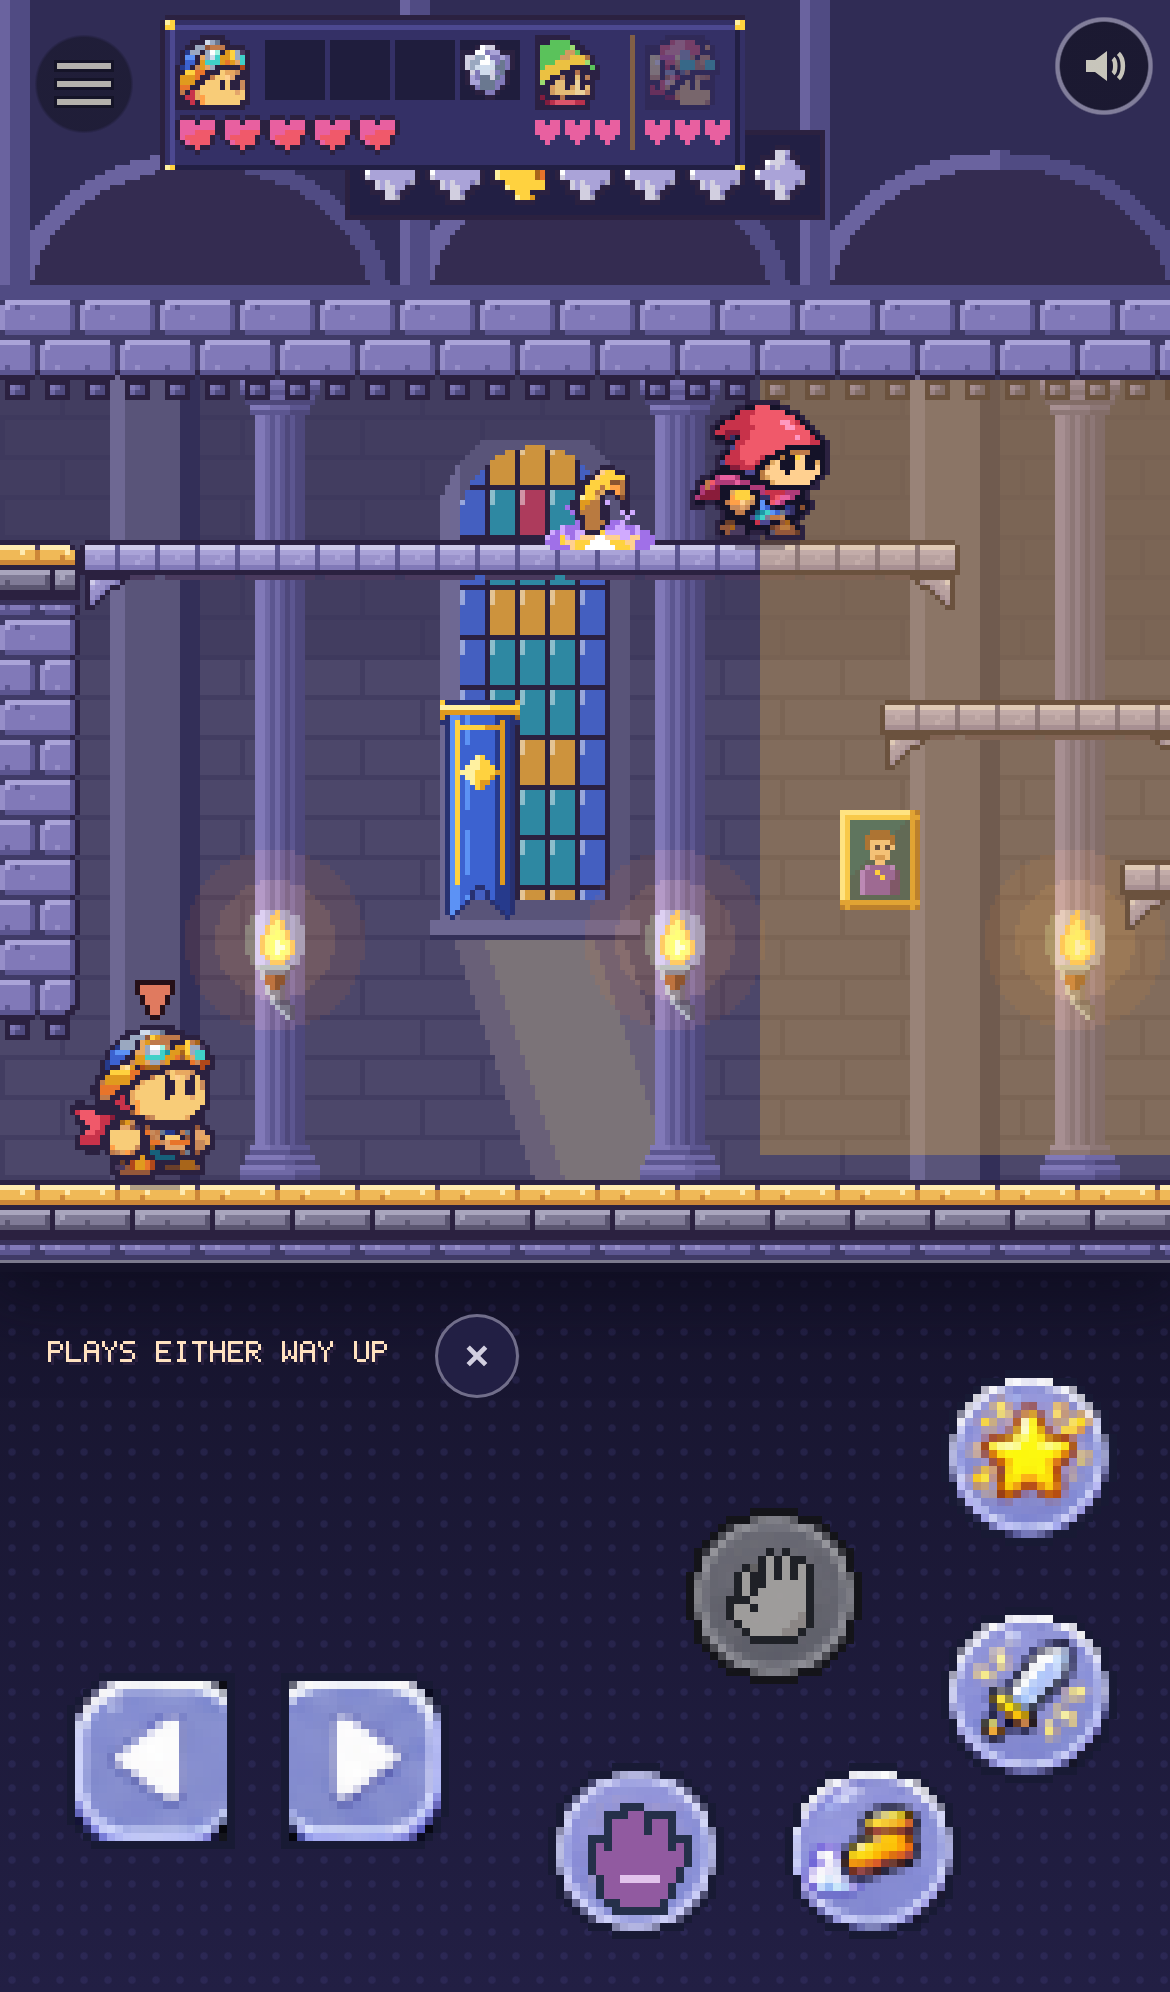
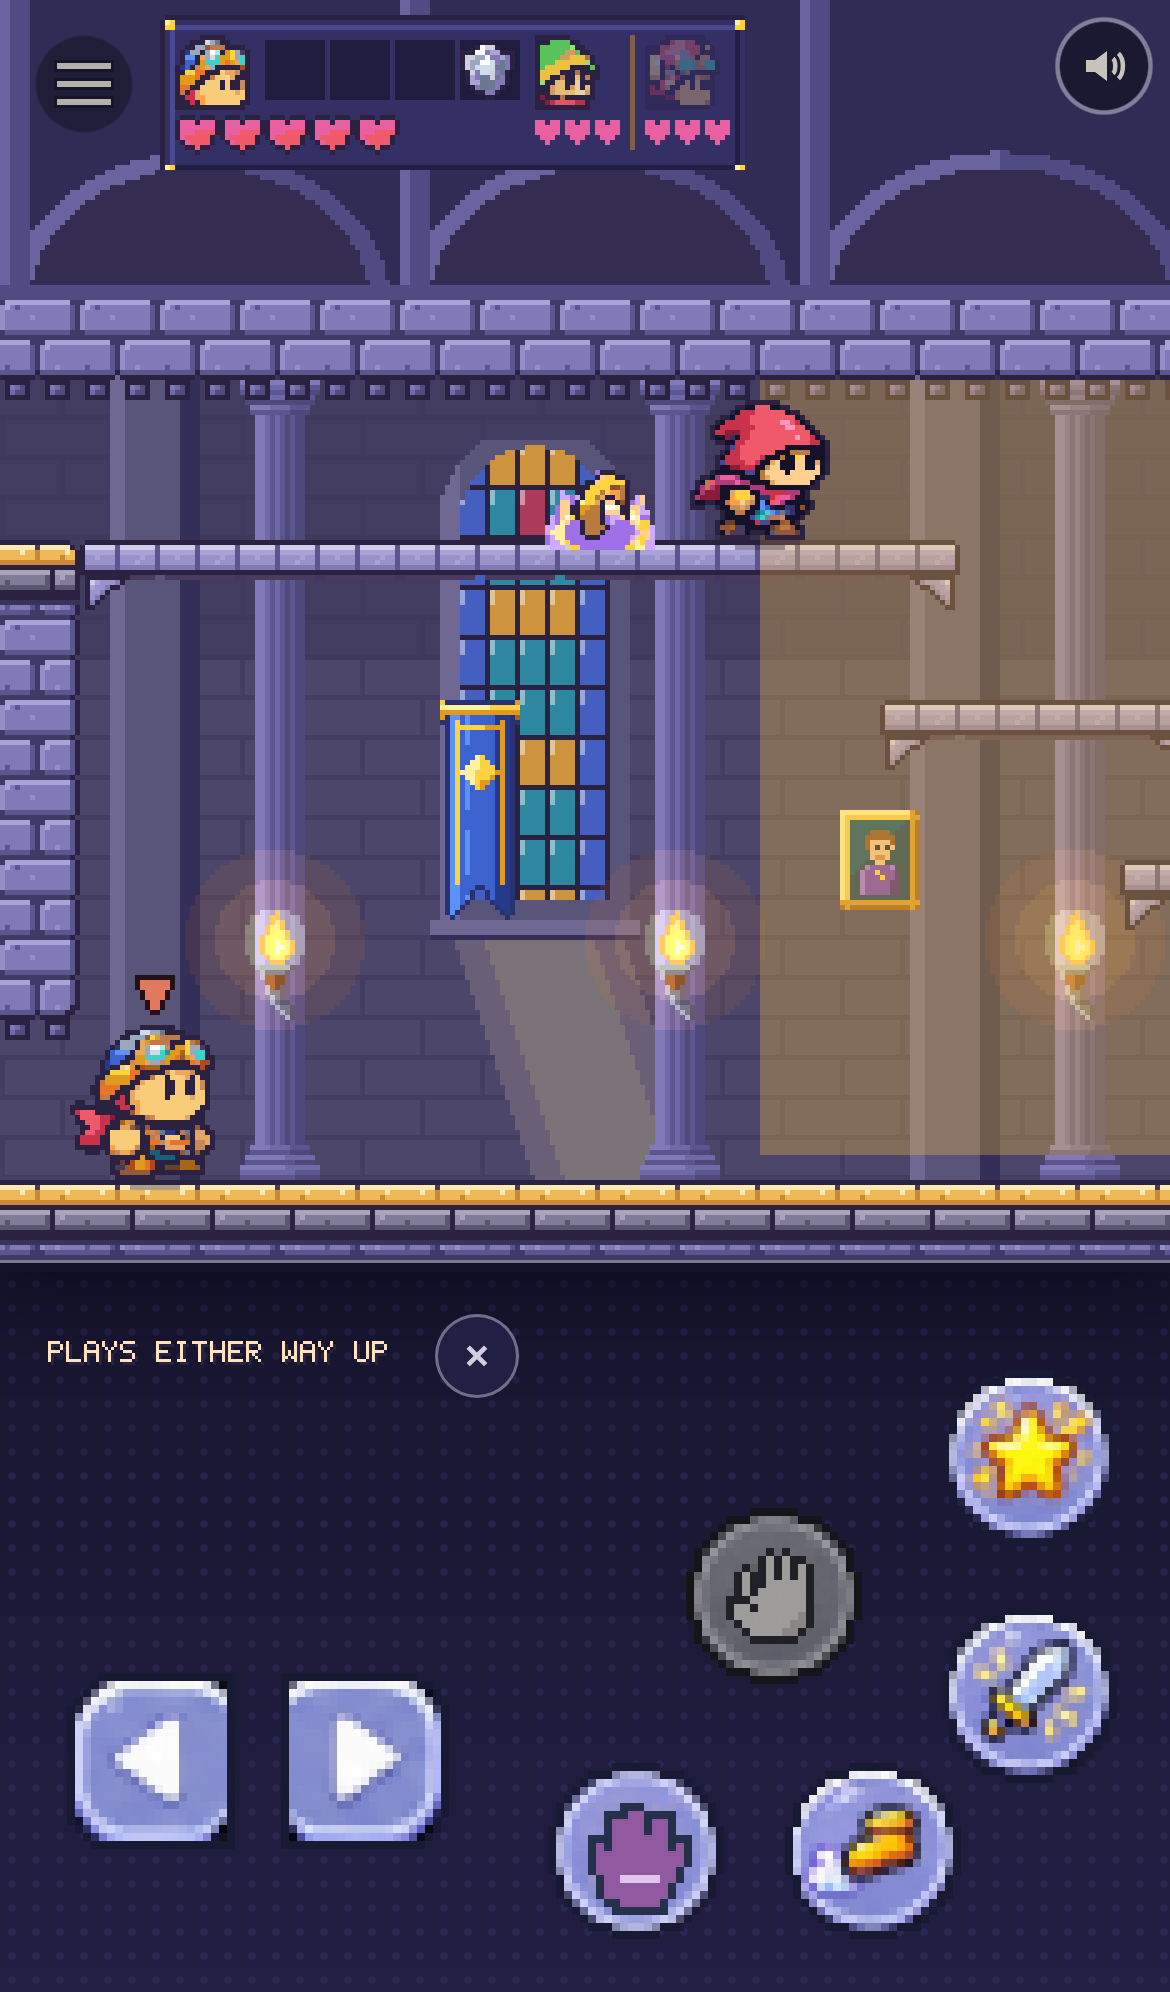
Step 24 push 3: the thrower's shot in the air bigger and rimmed; the courtyard bad guy measured, not placed
Why: the orchestrator's 14:45 look at slice 1b's shots: in flight the shot was
"a small orange crescent with a faint trail, low in contrast on the gallery's
tan wall", and at-rest-sideways.png was taken at 750x340.

What:
- `flight` on the weapon kind gains `outline` (a 1 px rim colour) and `scale`
  (1 to 3), additive; thrown-shot flies 1.5x, a dark rim, tint 0.6, a brighter
  trail. Draw only. Shots retaken: docs/plan/step-24-shots/1b/.
- scripts/e2e/ranged.ts sets 844x390 before each first shot.
- The courtyard (brief push 3): one outpost-fighter at [24, 7] makes D-069's
  three-sided fight (scenario written: the guard chasing a hero in is hit by
  him), check 0 reds, but the full e2e's plates-friend-held (plates.ts, not
  mine) went red: he knocks the pages off the plates. Not placed; the file and
  scenarios kept in docs/plan/step-24-courtyard-draft/, ways on in
  step-24.md "Builder notes" for the orchestrator.

Ran: npm run build; npm run check (green); full npm run e2e 140 of 140 (one
earlier full run without the bandit failed door-go-in/door-use, which then
passed alone three times and in this run: a full-run flake).

Measure: none. Undo: revert the commit.

Claude-Session: https://claude.ai/code/session_017WiGzJR2qgU7SXbKtxZpYP

Changed region(s): [[0.3077, 0.0622, 0.7077, 0.1245], [0.4615, 0.2179, 0.5538, 0.2801], [0.1231, 0.4669, 0.1538, 0.5291]]

diff --git a/src/content/kinds/weapons.ts b/src/content/kinds/weapons.ts
@@ -87,11 +87,13 @@ export interface Weapon {
    * only, the simulation never reads it), so a thing flying at you cannot be
    * taken for the same thing lying still to pick up: `spin` turns a second,
    * `trail` fading copies behind it along its flight, `tint` a colour laid
-   * over it (#rrggbb, at `tintAmount` 0..1). Its picture is `looks.flying`
-   * when cut, else `looks.ground`. Absent: drawn as it lies (the sword, the
-   * bomb). DRAFT: the fields; additive, so any thrown weapon can say them.
+   * over it (#rrggbb, at `tintAmount` 0..1), `outline` a one-pixel rim in
+   * that colour round it (so it reads on any wall), `scale` its size against
+   * the look's own (1 to 3). Its picture is `looks.flying` when cut, else
+   * `looks.ground`. Absent: drawn as it lies (the sword, the bomb). DRAFT:
+   * the fields; additive, so any thrown weapon can say them.
    */
-  flight?: { spin: number; trail: number; tint?: string; tintAmount: number };
+  flight?: { spin: number; trail: number; tint?: string; tintAmount: number; outline?: string; scale: number };
   /** Who starts holding one: placed entity ids (content/placements/) or character kinds, bodies nobody plays (systems/weapon-carriers.ts). */
   carriers: string[];
 }
@@ -183,17 +185,23 @@ const kind: ContentKind = {
     if (o.flight !== undefined) {
       const f = read.object(o.flight, 'flight');
       if (f) {
-        read.only(f, ['spin', 'trail', 'tint', 'tintAmount'], 'flight');
+        read.only(f, ['spin', 'trail', 'tint', 'tintAmount', 'outline', 'scale'], 'flight');
         out.flight = {
           spin: f.spin === undefined ? 0 : read.number(f, 'spin', 'flight', { min: -8, max: 8 }),
           trail: f.trail === undefined ? 0 : read.number(f, 'trail', 'flight', { min: 0, max: 8 }),
           tintAmount: f.tintAmount === undefined ? 0.5 : read.number(f, 'tintAmount', 'flight', { min: 0, max: 1 }),
+          scale: f.scale === undefined ? 1 : read.number(f, 'scale', 'flight', { min: 1, max: 3 }),
         };
         if (!Number.isInteger(out.flight.trail)) read.fail('flight.trail', `must be a whole number of copies, but is ${describe(f.trail)}`);
         if (f.tint !== undefined) {
           const tint = read.string(f, 'tint', 'flight');
           if (/^#[0-9a-fA-F]{6}$/.test(tint)) out.flight.tint = tint;
           else read.fail('flight.tint', `must be a colour "#rrggbb", but is ${describe(f.tint)}`);
+        }
+        if (f.outline !== undefined) {
+          const ink = read.string(f, 'outline', 'flight');
+          if (/^#[0-9a-fA-F]{6}$/.test(ink)) out.flight.outline = ink;
+          else read.fail('flight.outline', `must be a colour "#rrggbb", but is ${describe(f.outline)}`);
         }
       }
     }

diff --git a/src/client/draw/weapons.ts b/src/client/draw/weapons.ts
@@ -64,12 +64,16 @@ function drawInFlight(g: CanvasRenderingContext2D, w: Weapon, id: string, x: num
   while (past.length > f.trail * TRAIL_STEP + 1) past.shift();
   trails.set(id, past);
   const source = art && f.tint ? tinted(art, f.tint, 'paint', f.tintAmount) : undefined;
+  const rim = art && f.outline ? tinted(art, f.outline, 'paint', 1) : undefined;
   const turn = (frame / 60) * f.spin * Math.PI * 2;
-  const one = (px: number, py: number, alpha: number, angle: number) => {
+  const one = (px: number, py: number, alpha: number, angle: number, solid = false) => {
     g.save();
     g.globalAlpha *= alpha;
     g.translate(ox + Math.round(px), oy + Math.round(py));
     g.rotate(angle);
+    g.scale(f.scale, f.scale);
+    // The rim: the picture in the outline's colour a pixel out each way, under it (the thing itself only, not its trail).
+    if (art && rim && solid) for (const [dx, dy] of [[-1, 0], [1, 0], [0, -1], [0, 1]] as const) drawFrame(g, art, 0, -art.w / 2 + dx, -art.h / 2 + dy, { source: rim });
     if (art) drawFrame(g, art, 0, -art.w / 2, -art.h / 2, source ? { source } : {});
     else {
       g.fillStyle = f.tint ?? '#c8ccd8';
@@ -80,9 +84,9 @@ function drawInFlight(g: CanvasRenderingContext2D, w: Weapon, id: string, x: num
   // The copies, every TRAIL_STEP frames back, the oldest faintest, each turned as it was then.
   for (let k = f.trail; k >= 1; k--) {
     const p = past[past.length - 1 - k * TRAIL_STEP];
-    if (p) one(p.x, p.y, (0.5 * (f.trail + 1 - k)) / (f.trail + 1), turn - k * TRAIL_STEP * (f.spin * Math.PI * 2) / 60);
+    if (p) one(p.x, p.y, (0.7 * (f.trail + 1 - k)) / (f.trail + 1), turn - k * TRAIL_STEP * (f.spin * Math.PI * 2) / 60);
   }
-  one(x, y, 1, turn);
+  one(x, y, 1, turn, true);
 }
 
 /** Impact looks playing: which look, where (room px, centre), on which frame they began. */

diff --git a/scripts/e2e/ranged.ts b/scripts/e2e/ranged.ts
@@ -51,6 +51,9 @@ const xOn = (ph: Phone, tx: number): Promise<number> =>
 /** Slice 1b: each shot at the three phone sizes the brief names, sideways first (the moment itself). */
 async function shots(ph: Phone, dir: string, name: string): Promise<void> {
   fs.mkdirSync(dir, { recursive: true });
+  // The look at 1b found at-rest-sideways taken at 750x340: set the size, never assume it.
+  await ph.page.setViewportSize({ width: 844, height: 390 });
+  await sleep(250);
   await ph.page.screenshot({ path: path.join(dir, `${name}-sideways.png`) });
   await ph.page.setViewportSize({ width: 750, height: 340 });
   await sleep(250);

diff --git a/docs/plan/step-24.md b/docs/plan/step-24.md
@@ -528,3 +528,33 @@ Sent to the thrower's builder as part of its brief's next push; nothing here is 
     (seen in a first trace with the hero spawned in the undercroft). Players
     come down the cellar stair later, behind him. A placement `facing`, or
     `ranged-throw` waiting for the routine's first turn, would fix it.
+- **Push 3 (the courtyard): measured, not placed.** One `outpost-fighter`
+  (`courtyard-fighter-1`) at tile [24, 7], between the east plate and the
+  gate, facing west then east: `npm run check` 0 reds, and the new scenario
+  `step24-courtyard-guard-meets-bandit` (with `-control`) shows D-069's
+  three-sided fight in the real room: the street guard chases a hero into
+  the courtyard, the bandit hits the hero (4013) and then the guard (4199).
+  **But the full e2e went red on another builder's fact,**
+  `plates-friend-held` (`scripts/e2e/plates.ts`: the pages on the two plates
+  are knocked off; the plate drawn up on A in 91 of 91 frames), and on
+  `door-use`; 138 ok otherwise. `door-use` (with `door-go-in`) then failed
+  once more in a full run *without* him and passed alone three times and in
+  the next full run (140 of 140), so it is a full-run flake, not his; the
+  plates fact passed in both runs without him. So it is not pushed. Measured reasoning: the courtyard west of the gate is 11 tiles
+  (14-24) holding two plates, two doorways and the spawn; any bad guy who
+  walks at a hero there meets the pages those facts stand. Kept, ready to
+  land: `docs/plan/step-24-courtyard-draft/` (`courtyard.json` for
+  `content/placements/`, the two scenarios for `scenarios/`). Ways on, for
+  the orchestrator to choose (each a fact owner's say): (a) the two facts'
+  owners (Step 3's plates, the doors fact) move their pages' room to a
+  private test world or a placement-free run; (b) the bandit stands east of
+  the gate (columns 26-28; the plates and ranged e2e walk through there, so
+  measure again); (c) a bad guy who does not walk at heroes (a lookout, a
+  thrower facing west at column 14 over the street door) and measure again.
+- **Also in push 3:** the in-flight look strengthened after the 14:45 look
+  ("small orange crescent with a faint trail, low in contrast on the tan
+  wall"): `flight` gains `outline` (a 1 px dark rim) and `scale` (1.5×);
+  tint 0.6, trail copies brighter. `shots()` in `scripts/e2e/ranged.ts` now
+  sets 844×390 before its first shot (the look found `at-rest-sideways` at
+  750×340). "Spent shots read as pickups" is slice 1's design (a landed shot
+  is picked up with Use and thrown back): not changed.

diff --git a/docs/decisions-log.md b/docs/decisions-log.md
@@ -618,3 +618,10 @@ document as a decision of theirs.
 - **Why this way:** the owner's words stay "make use of those", and the phone's legible pixels come first. So the pictures are used whole and only pushed back: each is softened toward its own sky (the quarry by half, the forest a little under half, the street, courtyard and camp by under a third: lighter and plainer with distance, as the art contract asks), and above it its own top edge carries on upward, fading softly into its sky, so a tall view never shows a line. Real platforms are bright and outlined; painted ones are pale. The undercroft is underground and none of the unplaced backgrounds is an underground room without a sky (the ice caverns and forges all open onto mountains, a volcano or the moon), so it has its drawn cellar wall back.
 - **To change it:** the softening per background is one number in `FAR` in `tools/art/backgrounds/import_panoramas.py`, then re-run it; the fade's height is `FADE`. A room draws the original unsoftened picture by dropping `-far` from its first layer's image.
 - **Where:** `docs/plan/step-8.md`, "Biome backgrounds"; `content/backdrops/*.json`.
+
+### 2026-11-24 · Step 24: the thrower's shot in the air is bigger and has a dark rim
+- **Decided by:** Step 24 slice 1b builder, `session_017WiGzJR2qgU7SXbKtxZpYP`, after the orchestrator's look at the shots
+- **Instead of asking:** "Is the thrown shot easy enough to see coming?"
+- **Why this way:** the look found it "a small orange crescent with a faint trail, low in contrast on the gallery's tan wall"; your "readable enemies" and "legible pixels" (D-093). In the air it is now half as big again, redder, with a one-pixel dark rim and a brighter trail, so it stands out on any wall. Lying on the floor it is unchanged, because a landed shot is meant to be picked up and thrown back.
+- **To change it:** `outline`, `scale`, `tintAmount` in the `flight` line of `content/weapons/thrown-shot.json`.
+- **Where:** `docs/mechanisms/weapons.md`, "What a player sees"; shots in `docs/plan/step-24-shots/1b/`. `DRAFT:`

diff --git a/docs/mechanisms/weapons.md b/docs/mechanisms/weapons.md
@@ -166,9 +166,10 @@ glow. Held: the look's `grip` on the holder's hand point
 `swing` look's first frame; recover: its last; a blow by a weapon in hand
 plays its `impact` look where it landed. No digits anywhere.
 In the air (`loose.flying`), a weapon whose file has a `flight` (`spin` turns
-a second, `trail` fading copies, `tint` `#rrggbb` at `tintAmount`; Step 24
-slice 1b, draw only, the sim never reads it) is drawn spun about its middle,
-tinted, with copies where this page drew it a few frames back, from
+a second, `trail` fading copies, `tint` `#rrggbb` at `tintAmount`, `outline` a
+one-pixel rim colour, `scale` 1 to 3; Step 24 slice 1b, draw only, the sim
+never reads it) is drawn spun about its middle,
+scaled, rimmed, tinted, with copies where this page drew it a few frames back, from
 `looks.flying` when cut, else `ground`: a throw at you is never drawn like the
 same thing lying still. Only `thrown-shot` says one (`DRAFT:`).
 `window.irreverents.drawn.weapons` = `{ loose, held }` for the checks (a loose
